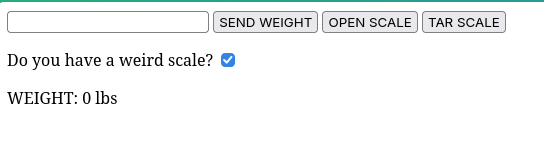
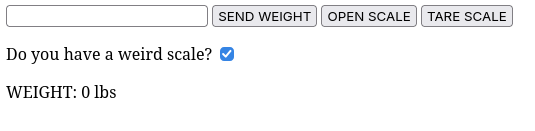
Fix typo

Changed region(s): [[0.0, 0.0, 1.0, 0.2137], [0.0, 0.3359, 0.4486, 0.4885], [0.0, 0.5802, 0.2393, 0.7634]]

diff --git a/src/routes/+page.svelte b/src/routes/+page.svelte
@@ -155,7 +155,7 @@
 
 <button id="send-button">SEND WEIGHT</button>
 <button id="open-button">OPEN SCALE</button>
-<button id="tare-button">TAR SCALE</button>
+<button id="tare-button">TARE SCALE</button>
 
 <p>Do you have a weird scale? <input bind:checked={weirdScale} type="checkbox" /></p>
 

diff --git a/README.md b/README.md
@@ -2,7 +2,7 @@ Program that weighs food for food drives. Uses webserial to connect to a USB sca
 
 ![Image of the UI](image.png)
 
-Got to an okay MVP, the code that is there is pretty robust, other than the scale checkbox.
+Got to an okay MVP, the code that is there is pretty robust, other than the scale checkbox. Weird scale checkbox uses a slightly different interface over the serial port, as some scales that were used at the food drive were weird, hence the naming.
 
 Things that need to be added:
 
